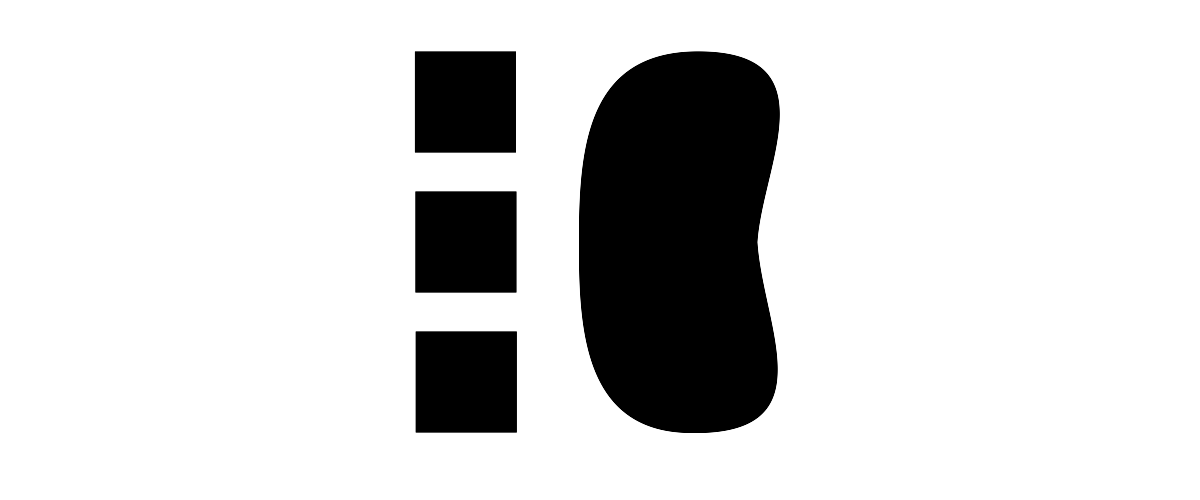
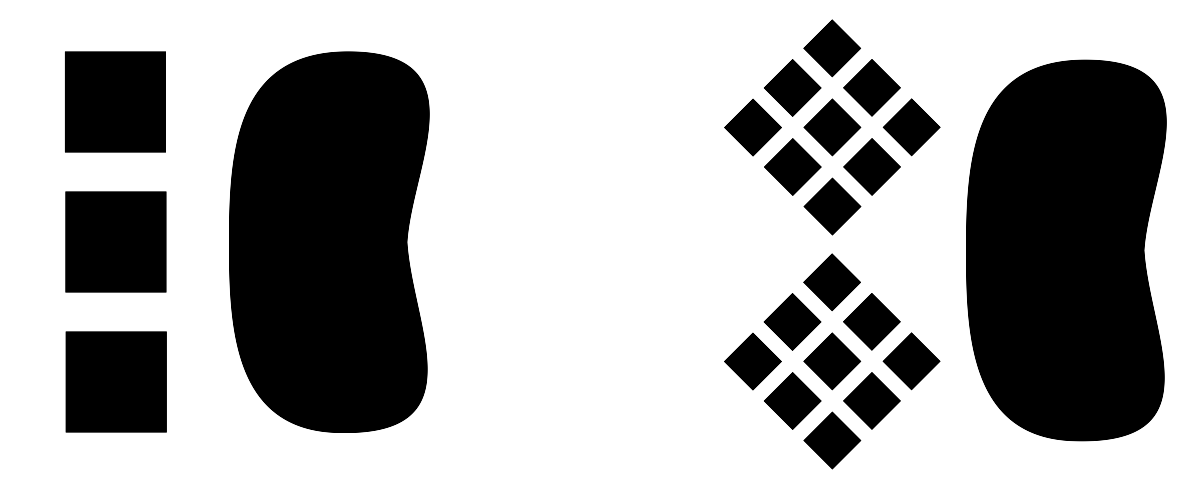
Add MBLD to images

diff --git a/img/magick.md b/img/magick.md
@@ -9,20 +9,10 @@ convert -resize 1200x628 -gravity center -extent 1200x628 svg/333fm.svg png/333f
 
 
 
-### Batch Convert SVG to PNG
+### Facebook
 
 ```
 mogrify -format png -path png -resize 900x471 -gravity center -extent 1200x628 svg/*.svg
-```
-
-
-
-### Batch Convert SVG to PNG
-
-Icons for Google Forms.
-
-```
-mogrify -format png -path wide -resize 1200x120 -gravity center -extent 1200x120 svg/*.svg
 ```
 
 
@@ -50,19 +40,9 @@ convert svg/222.svg svg/333.svg svg/444.svg svg/555.svg svg/666.svg svg/777.svg 
 
 
 
-
-
-### Append Images
+### Facebook Events
 
 #### 3x3x3+
-
-```
-convert svg/333.svg svg/222.svg svg/333oh.svg -splice 200x0+0+0 +append -chop 200x0+0+0 -resize 1000x628 -gravity center -extent 1200x628 png/333+.png
-```
-
-```
-convert svg/333.svg svg/222.svg svg/333oh.svg svg/minx.svg -splice 200x0+0+0 +append -chop 200x0+0+0 -resize 1000x628 -gravity center -extent 1200x628 png/333+.png
-```
 
 ```
 convert svg/333.svg svg/222.svg -splice 200x0+0+0 +append -chop 200x0+0+0 png/333+1.png
@@ -81,18 +61,6 @@ convert png/short+1.png png/short+2.png -splice 0x200+0+0 -append -chop 0x200+0+
 #### 4x4x4+
 
 ```
-convert svg/444.svg svg/555.svg -splice 200x0+0+0 +append -chop 200x0+0+0 -resize 1100x628 -gravity center -extent 1200x628 png/444+.png
-```
-
-```
-convert svg/444.svg svg/555.svg svg/666.svg svg/777.svg -splice 200x0+0+0 +append -chop 200x0+0+0 -resize 1100x628 -gravity center -extent 1200x628 png/444+.png
-```
-
-```
-convert svg/444.svg svg/555.svg svg/666.svg svg/777.svg svg/minx.svg -splice 200x0+0+0 +append -chop 200x0+0+0 -resize 1100x628 -gravity center -extent 1200x628 png/444+.png
-```
-
-```
 convert svg/444.svg svg/555.svg -splice 200x0+0+0 +append -chop 200x0+0+0 png/444+1.png
 convert svg/666.svg svg/777.svg -splice 200x0+0+0 +append -chop 200x0+0+0 png/444+2.png
 convert png/444+1.png png/444+2.png -splice 0x200+0+0 -append -chop 0x200+0+0 -bordercolor white -border 100x100 -resize 1000x628 -gravity center -extent 1200x628 png/444+.png
@@ -101,11 +69,7 @@ convert png/444+1.png png/444+2.png -splice 0x200+0+0 -append -chop 0x200+0+0 -b
 #### 3BLD+
 
 ```
-convert svg/333bf.svg svg/444bf.svg svg/555bf.svg -splice 200x0+0+0 +append -chop 200x0+0+0 -resize 1000x628 -gravity center -extent 1200x628 png/333bf+.png
-```
-
-```
-convert svg/333bf.svg -resize 1200x500 -gravity center -extent 1200x500 png/333bf+1.png
+convert svg/333bf.svg svg/333mbf.svg -splice 200x0+0+0 +append -chop 200x0+0+0 png/333bf+1.png
 convert svg/444bf.svg svg/555bf.svg -splice 200x0+0+0 +append -chop 200x0+0+0 png/333bf+2.png
 convert png/333bf+1.png png/333bf+2.png -splice 0x200+0+0 -append -chop 0x200+0+0 -bordercolor white -border 100x100 -resize 1000x628 -gravity center -extent 1200x628 png/333bf+.png
 ```
